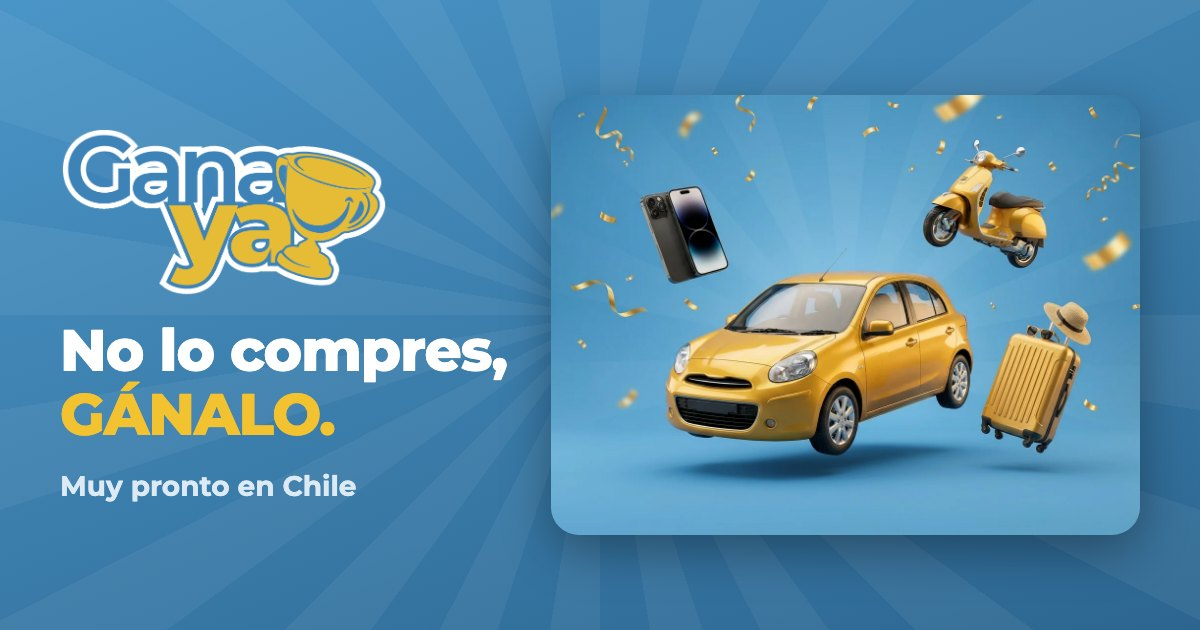
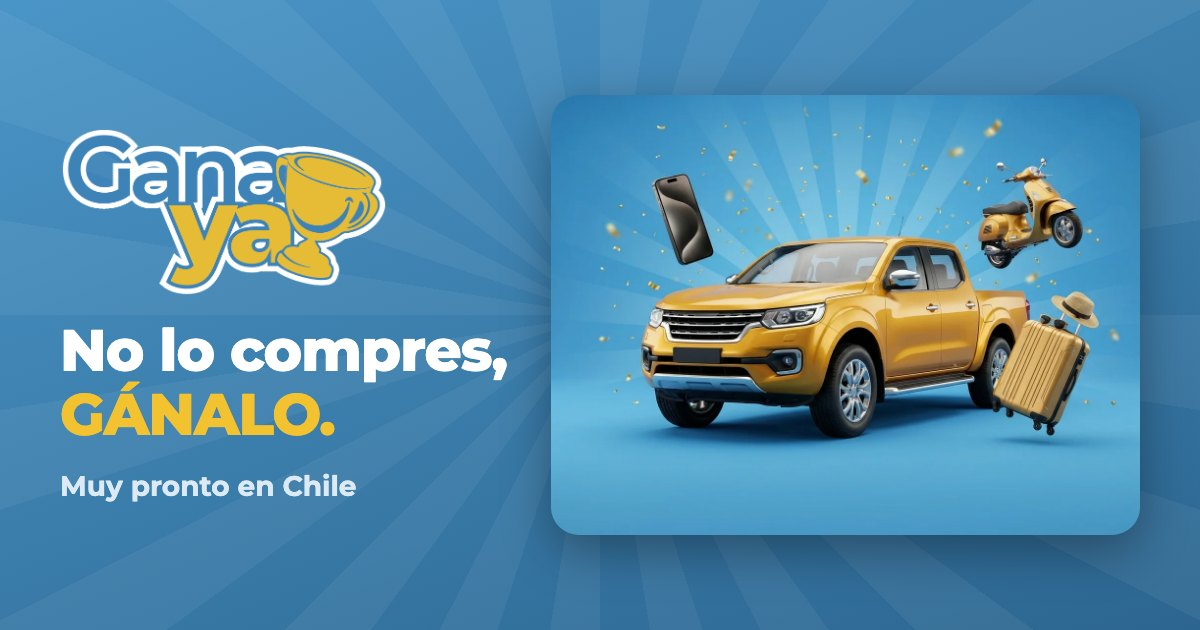
Pick-up + espagnol naturel

diff --git a/index.html b/index.html
@@ -4,10 +4,10 @@
   <meta charset="utf-8">
   <meta name="viewport" content="width=device-width, initial-scale=1">
   <title>GanaYa — No lo compres, GÁNALO</title>
-  <meta name="description" content="Muy pronto en Chile: descuentos en todo lo que haces y concursos exclusivos para miembros. Únete a la lista fundadora.">
+  <meta name="description" content="Muy pronto en Chile: descuentos en todo lo que haces y concursos exclusivos para miembros. Sé de los primeros.">
   <meta property="og:type" content="website">
   <meta property="og:title" content="GanaYa — No lo compres, GÁNALO">
-  <meta property="og:description" content="Muy pronto en Chile: descuentos en todo lo que haces y concursos exclusivos para miembros. Únete a la lista fundadora.">
+  <meta property="og:description" content="Muy pronto en Chile: descuentos en todo lo que haces y concursos exclusivos para miembros. Sé de los primeros.">
   <meta property="og:image" content="https://gana-ya.com/assets/og.jpg">
   <meta property="og:url" content="https://gana-ya.com">
   <link rel="icon" type="image/png" sizes="32x32" href="assets/favicon.png">
@@ -25,7 +25,7 @@
     <h1>No lo compres, <span class="ya">GÁNALO.</span></h1>
     <p class="hero-sub">Muy pronto en Chile: el club que te da descuentos en todo lo
       que haces — y concursos exclusivos con premios increíbles para sus miembros.</p>
-    <button class="cta cta-hero" type="button">Quiero ser fundador</button>
+    <button class="cta cta-hero" type="button">Quiero ser de los primeros</button>
   </header>
 
   <section class="descuentos">
@@ -48,9 +48,9 @@
   <section class="premios">
     <h2>¿Te imaginas lo que podrías ganar?</h2>
     <img class="premio-hero" src="assets/premios-todos.webp"
-         alt="Premios referenciales: auto 0 km, smartphone, moto y viajes" loading="lazy">
-    <p>Autos, tecnología, motos, viajes… Los miembros fundadores serán los primeros
-      en conocer nuestro primer gran concurso.</p>
+         alt="Premios referenciales: camioneta 0 km, smartphone, moto y viajes" loading="lazy">
+    <p>Camionetas, tecnología, motos, viajes… Los primeros inscritos conocerán antes
+      que nadie nuestro primer gran concurso.</p>
     <p class="ref">Imágenes referenciales. Los concursos promocionales se anunciarán
       a los miembros.</p>
   </section>
@@ -66,7 +66,7 @@
 
   <section class="fundador">
     <img class="trofeo" src="assets/trophy.png" alt="" aria-hidden="true">
-    <h2>Ventaja fundador</h2>
+    <h2>Beneficios para los primeros</h2>
     <p>Los primeros inscritos tendrán beneficios exclusivos de lanzamiento.</p>
   </section>
 

diff --git a/app.js b/app.js
@@ -92,7 +92,7 @@ form.addEventListener("submit", async (ev) => {
     if (!res.ok) throw new Error("HTTP " + res.status);
     if (CONFIG.PIXEL_ID) fbq("track", "Lead");
     form.outerHTML =
-      '<p class="exito">¡Listo! Eres parte de los fundadores.<br>Te avisaremos primero. 🏆</p>';
+      '<p class="exito">¡Listo! Tu lugar está reservado.<br>Te avisaremos antes que nadie. 🏆</p>';
   } catch (e) {
     console.error("GanaYa submit:", e);
     msg.textContent = "Ups, algo falló. Inténtalo de nuevo.";
